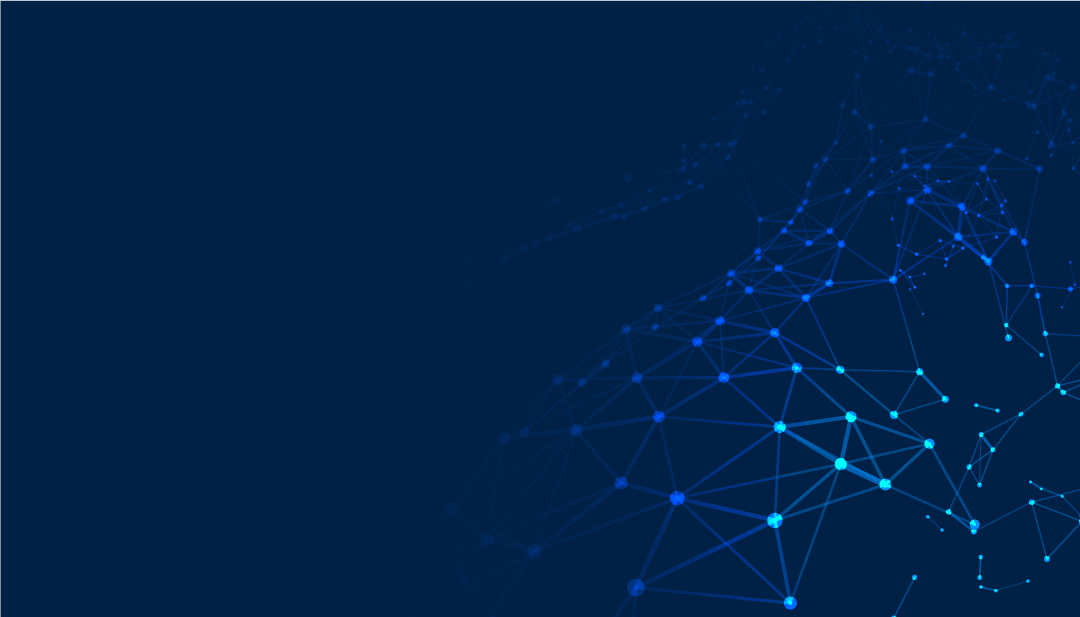
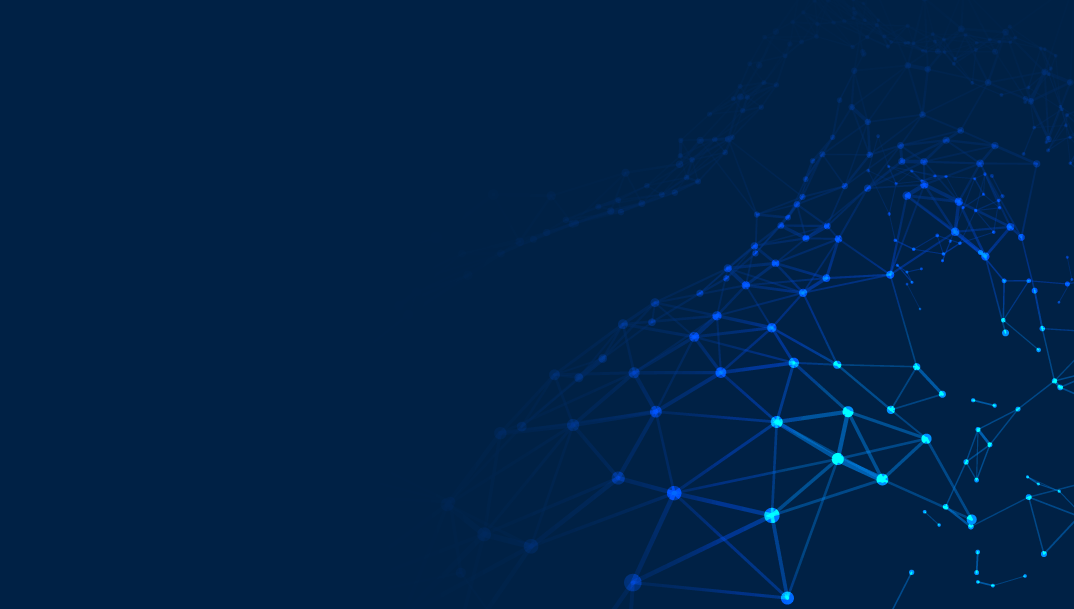
Added: Business summary component on home page

diff --git a/src/Pages/Home/BusinessSummary.js b/src/Pages/Home/BusinessSummary.js
@@ -1,0 +1,81 @@
+import React from "react";
+
+const BusinessSummary = () => {
+    return (
+        <div className="container mx-auto bg-gray-700 p-5">
+            <h2 className="text-5xl text-center text-primary my-5 bg-gray-700">
+                We Grow With You!
+            </h2>
+            <div className="stats shadow flex justify-center bg-white/10 text-white">
+                <div className="stat">
+                    <div className="stat-figure text-white">
+                        <svg
+                            xmlns="http://www.w3.org/2000/svg"
+                            fill="none"
+                            viewBox="0 0 24 24"
+                            className="inline-block w-8 h-8 stroke-current"
+                        >
+                            <path
+                                strokeLinecap="round"
+                                strokeLinejoin="round"
+                                strokeWidth="2"
+                                d="M13 16h-1v-4h-1m1-4h.01M21 12a9 9 0 11-18 0 9 9 0 0118 0z"
+                            ></path>
+                        </svg>
+                    </div>
+                    <div className="text-5xl">Revenue</div>
+                    <div className="stat-value text-7xl text-primary">~22M</div>
+                    <div className="stat-desc  text-xl">
+                        Jan 1st 2021 - Feb 1st 2022
+                    </div>
+                </div>
+
+                <div className="stat">
+                    <div className="stat-figure text-white">
+                        <svg
+                            xmlns="http://www.w3.org/2000/svg"
+                            fill="none"
+                            viewBox="0 0 24 24"
+                            className="inline-block w-8 h-8 stroke-current"
+                        >
+                            <path
+                                strokeLinecap="round"
+                                strokeLinejoin="round"
+                                strokeWidth="2"
+                                d="M12 6V4m0 2a2 2 0 100 4m0-4a2 2 0 110 4m-6 8a2 2 0 100-4m0 4a2 2 0 110-4m0 4v2m0-6V4m6 6v10m6-2a2 2 0 100-4m0 4a2 2 0 110-4m0 4v2m0-6V4"
+                            ></path>
+                        </svg>
+                    </div>
+                    <div className=" text-5xl">Orders</div>
+                    <div className="stat-value text-7xl  text-primary">
+                        9,200
+                    </div>
+                    <div className="stat-desc text-xl">↗ 1800 (22%)</div>
+                </div>
+
+                <div className="stat">
+                    <div className="stat-figure text-white">
+                        <svg
+                            xmlns="http://www.w3.org/2000/svg"
+                            fill="none"
+                            viewBox="0 0 24 24"
+                            className="inline-block w-8 h-8 stroke-current"
+                        >
+                            <path
+                                strokeLinecap="round"
+                                strokeLinejoin="round"
+                                strokeWidth="2"
+                                d="M5 8h14M5 8a2 2 0 110-4h14a2 2 0 110 4M5 8v10a2 2 0 002 2h10a2 2 0 002-2V8m-9 4h4"
+                            ></path>
+                        </svg>
+                    </div>
+                    <div className="text-5xl">New Registers</div>
+                    <div className="text-7xl text-primary">1,200</div>
+                    <div className="text-xl">↘ 90 (14%)</div>
+                </div>
+            </div>
+        </div>
+    );
+};
+
+export default BusinessSummary;

diff --git a/src/Pages/Home/Banner.js b/src/Pages/Home/Banner.js
@@ -4,13 +4,13 @@ import background from "../../asset/images/bg.png";
 
 const Banner = () => {
     return (
-        <div className="container mx-auto">
-            <div
-                className="w-100 h-screen flex items-center"
-                style={{
-                    background: `url(${background}) no-repeat center center/cover`,
-                }}
-            >
+        <div
+            className=""
+            style={{
+                background: `url(${background}) no-repeat center center/cover`,
+            }}
+        >
+            <div className="w-100 h-screen flex items-center container mx-auto">
                 <div className="text-white p-5">
                     <h2 className="text-3xl md:text-5xl font-bold">
                         Global Standards in

diff --git a/src/Pages/Home/Home.js b/src/Pages/Home/Home.js
@@ -1,6 +1,7 @@
 import React from "react";
 import Footer from "../Shared/Footer";
 import Banner from "./Banner";
+import BusinessSummary from "./BusinessSummary";
 import Products from "./Products";
 
 const Home = () => {
@@ -8,6 +9,7 @@ const Home = () => {
         <div>
             <Banner></Banner>
             <Products></Products>
+            <BusinessSummary></BusinessSummary>
             <Footer></Footer>
         </div>
     );
